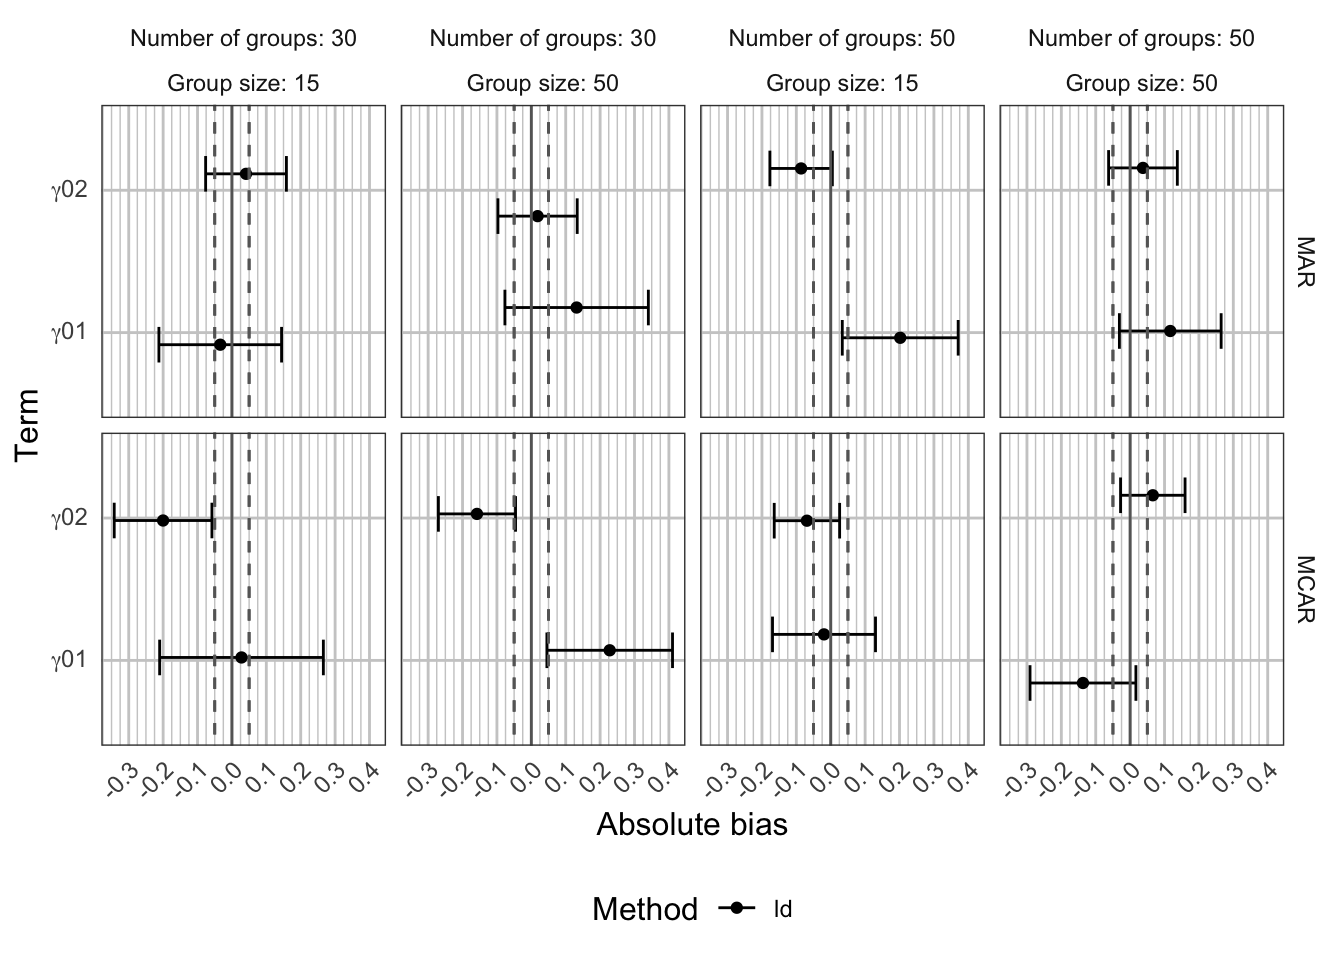
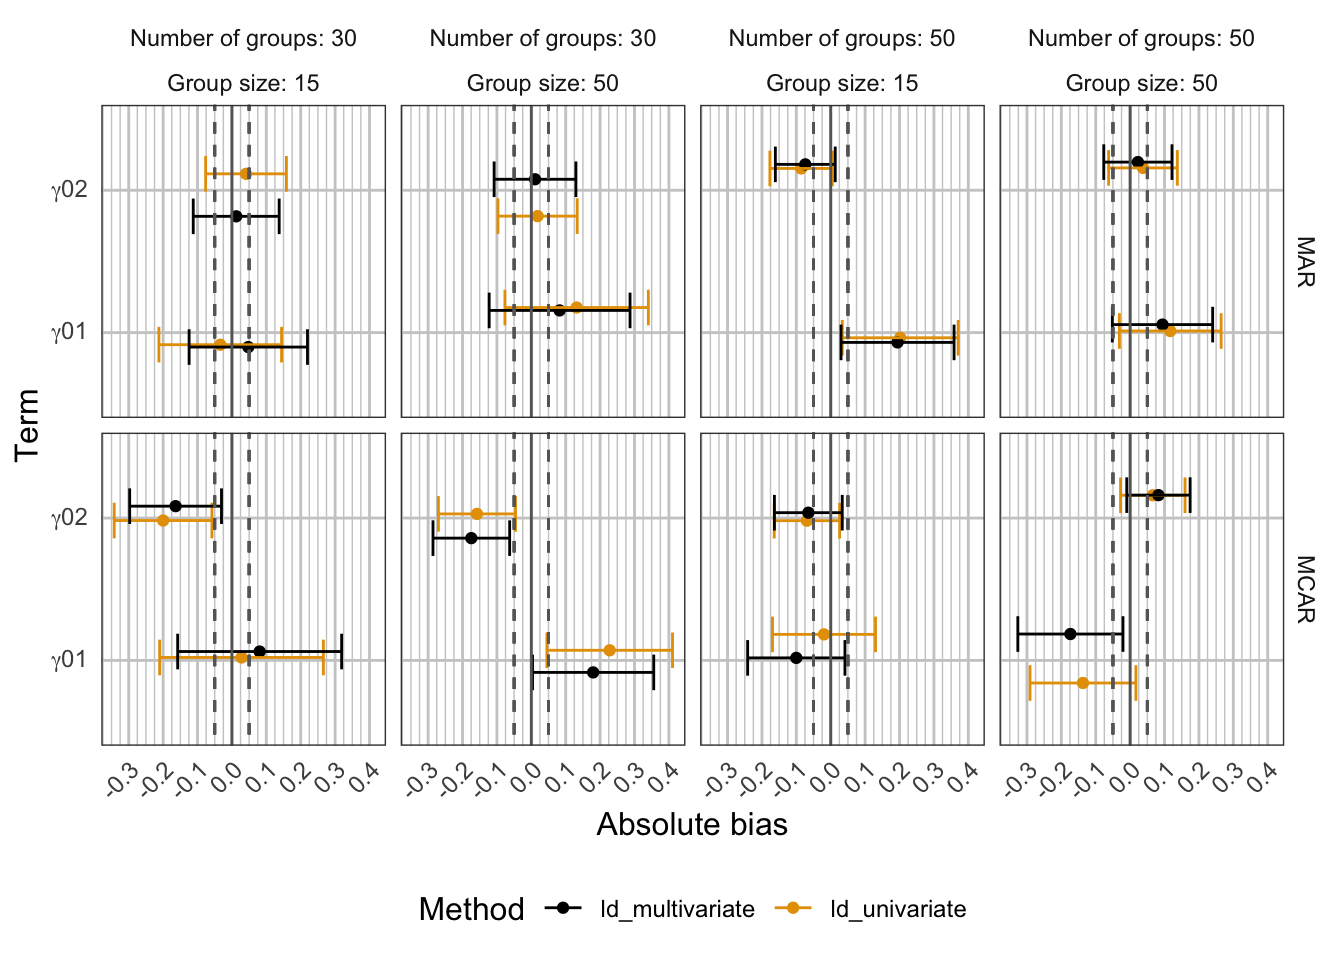
Adding figures for bias of multivariate and univariate missing data generation

diff --git a/multilevel missingess/multilevel missingness.html b/multilevel missingess/multilevel missingness.html
@@ -1546,15 +1546,23 @@ Processing iteration: 8 </code></pre>
 <span id="cb26-8"><a href="#cb26-8" aria-hidden="true" tabindex="-1"></a>    <span class="fu">return</span>(data)</span>
 <span id="cb26-9"><a href="#cb26-9" aria-hidden="true" tabindex="-1"></a>}</span>
 <span id="cb26-10"><a href="#cb26-10" aria-hidden="true" tabindex="-1"></a></span>
-<span id="cb26-11"><a href="#cb26-11" aria-hidden="true" tabindex="-1"></a>bias_ld <span class="ot">&lt;-</span> <span class="fu">map</span>(bias.datasets_ld, \(x) x<span class="sc">$</span>bias) <span class="sc">%&gt;%</span></span>
+<span id="cb26-11"><a href="#cb26-11" aria-hidden="true" tabindex="-1"></a>bias_ld_univariate <span class="ot">&lt;-</span> <span class="fu">map</span>(bias.datasets_ld, \(x) x<span class="sc">$</span>bias) <span class="sc">%&gt;%</span></span>
 <span id="cb26-12"><a href="#cb26-12" aria-hidden="true" tabindex="-1"></a>    <span class="fu">list_rbind</span>() <span class="sc">%&gt;%</span></span>
 <span id="cb26-13"><a href="#cb26-13" aria-hidden="true" tabindex="-1"></a>    <span class="fu">as_tibble</span>() <span class="sc">%&gt;%</span></span>
-<span id="cb26-14"><a href="#cb26-14" aria-hidden="true" tabindex="-1"></a>    <span class="fu">format.bias</span>(combinations, <span class="at">method =</span> <span class="st">"ld"</span>, <span class="at">name =</span> <span class="st">"Bias"</span>) <span class="sc">%&gt;%</span></span>
+<span id="cb26-14"><a href="#cb26-14" aria-hidden="true" tabindex="-1"></a>    <span class="fu">format.bias</span>(combinations, <span class="at">method =</span> <span class="st">"ld_univariate"</span>, <span class="at">name =</span> <span class="st">"Bias"</span>) <span class="sc">%&gt;%</span></span>
 <span id="cb26-15"><a href="#cb26-15" aria-hidden="true" tabindex="-1"></a>    <span class="fu">cbind</span>(<span class="fu">map</span>(bias.datasets_ld, \(x) x<span class="sc">$</span>bias.mcse) <span class="sc">%&gt;%</span></span>
 <span id="cb26-16"><a href="#cb26-16" aria-hidden="true" tabindex="-1"></a>        <span class="fu">list_rbind</span>() <span class="sc">%&gt;%</span></span>
 <span id="cb26-17"><a href="#cb26-17" aria-hidden="true" tabindex="-1"></a>        <span class="fu">as_tibble</span>() <span class="sc">%&gt;%</span></span>
-<span id="cb26-18"><a href="#cb26-18" aria-hidden="true" tabindex="-1"></a>        <span class="fu">format.bias</span>(combinations, <span class="at">method =</span> <span class="st">"ld"</span>, <span class="at">name =</span> <span class="st">"MCSE"</span>) <span class="sc">%&gt;%</span></span>
-<span id="cb26-19"><a href="#cb26-19" aria-hidden="true" tabindex="-1"></a>        dplyr<span class="sc">::</span><span class="fu">select</span>(MCSE))</span></code><button title="Copy to Clipboard" class="code-copy-button"><i class="bi"></i></button></pre></div>
+<span id="cb26-18"><a href="#cb26-18" aria-hidden="true" tabindex="-1"></a>        <span class="fu">format.bias</span>(combinations, <span class="at">method =</span> <span class="st">"ld_univariate"</span>, <span class="at">name =</span> <span class="st">"MCSE"</span>) <span class="sc">%&gt;%</span></span>
+<span id="cb26-19"><a href="#cb26-19" aria-hidden="true" tabindex="-1"></a>        dplyr<span class="sc">::</span><span class="fu">select</span>(MCSE))</span>
+<span id="cb26-20"><a href="#cb26-20" aria-hidden="true" tabindex="-1"></a></span>
+<span id="cb26-21"><a href="#cb26-21" aria-hidden="true" tabindex="-1"></a>bias_ld_multivariate <span class="ot">&lt;-</span> <span class="fu">read_rds</span>(<span class="fu">paste</span>(path, <span class="st">"results/evaluations/bias_ld.rds"</span>, <span class="at">sep =</span> <span class="st">""</span>)) <span class="sc">%&gt;%</span></span>
+<span id="cb26-22"><a href="#cb26-22" aria-hidden="true" tabindex="-1"></a>    <span class="fu">format.bias</span>(., combinations, <span class="at">method =</span> <span class="st">"ld_multivariate"</span>, <span class="at">name =</span> <span class="st">"Bias"</span>) <span class="sc">%&gt;%</span></span>
+<span id="cb26-23"><a href="#cb26-23" aria-hidden="true" tabindex="-1"></a>    <span class="fu">cbind</span>(<span class="fu">read_rds</span>(<span class="fu">paste</span>(path, <span class="st">"results/evaluations/mcse_bias_ld.rds"</span>, <span class="at">sep =</span> <span class="st">""</span>)) <span class="sc">%&gt;%</span></span>
+<span id="cb26-24"><a href="#cb26-24" aria-hidden="true" tabindex="-1"></a>        <span class="fu">format.bias</span>(., combinations, <span class="at">method =</span> <span class="st">"ld_multivariate"</span>, <span class="at">name =</span> <span class="st">"MCSE"</span>) <span class="sc">%&gt;%</span></span>
+<span id="cb26-25"><a href="#cb26-25" aria-hidden="true" tabindex="-1"></a>        dplyr<span class="sc">::</span><span class="fu">select</span>(MCSE))</span>
+<span id="cb26-26"><a href="#cb26-26" aria-hidden="true" tabindex="-1"></a></span>
+<span id="cb26-27"><a href="#cb26-27" aria-hidden="true" tabindex="-1"></a>bias_ld <span class="ot">&lt;-</span> <span class="fu">bind_rows</span>(bias_ld_univariate, bias_ld_multivariate)</span></code><button title="Copy to Clipboard" class="code-copy-button"><i class="bi"></i></button></pre></div>
 </details>
 </div>
 <div class="cell">
@@ -1569,7 +1577,7 @@ Processing iteration: 8 </code></pre>
 <img src="multilevel-missingness_files/figure-html/fig-bias-singular-missing-1.png" class="img-fluid figure-img" width="672">
 </div>
 <figcaption class="quarto-float-caption-bottom quarto-float-caption quarto-float-fig" id="fig-bias-singular-missing-1-caption-0ceaefa1-69ba-4598-a22c-09a6ac19f8ca">
-Figure&nbsp;25: Bias of the estimates for all datasets
+Figure&nbsp;25: Bias of the residual and intercept variance for all datasets
 </figcaption>
 </figure>
 </div>
@@ -1581,7 +1589,7 @@ Figure&nbsp;25: Bias of the estimates for all datasets
 <img src="multilevel-missingness_files/figure-html/fig-bias-singular-missing-2.png" class="img-fluid figure-img" width="672">
 </div>
 <figcaption class="quarto-float-caption-bottom quarto-float-caption quarto-float-fig" id="fig-bias-singular-missing-2-caption-0ceaefa1-69ba-4598-a22c-09a6ac19f8ca">
-Figure&nbsp;26: Bias of the estimates for all datasets
+Figure&nbsp;26: Bias of the overall intercept for all datasets
 </figcaption>
 </figure>
 </div>
@@ -1593,7 +1601,7 @@ Figure&nbsp;26: Bias of the estimates for all datasets
 <img src="multilevel-missingness_files/figure-html/fig-bias-singular-missing-3.png" class="img-fluid figure-img" width="672">
 </div>
 <figcaption class="quarto-float-caption-bottom quarto-float-caption quarto-float-fig" id="fig-bias-singular-missing-3-caption-0ceaefa1-69ba-4598-a22c-09a6ac19f8ca">
-Figure&nbsp;27: Bias of the estimates for all datasets
+Figure&nbsp;27: Bias of the fixed level-1 effects for all datasets
 </figcaption>
 </figure>
 </div>
@@ -1605,7 +1613,7 @@ Figure&nbsp;27: Bias of the estimates for all datasets
 <img src="multilevel-missingness_files/figure-html/fig-bias-singular-missing-4.png" class="img-fluid figure-img" width="672">
 </div>
 <figcaption class="quarto-float-caption-bottom quarto-float-caption quarto-float-fig" id="fig-bias-singular-missing-4-caption-0ceaefa1-69ba-4598-a22c-09a6ac19f8ca">
-Figure&nbsp;28: Bias of the estimates for all datasets
+Figure&nbsp;28: Bias of the fixed level-2 effects for all datasets
 </figcaption>
 </figure>
 </div>
@@ -1617,7 +1625,7 @@ Figure&nbsp;28: Bias of the estimates for all datasets
 <img src="multilevel-missingness_files/figure-html/fig-bias-singular-missing-5.png" class="img-fluid figure-img" width="672">
 </div>
 <figcaption class="quarto-float-caption-bottom quarto-float-caption quarto-float-fig" id="fig-bias-singular-missing-5-caption-0ceaefa1-69ba-4598-a22c-09a6ac19f8ca">
-Figure&nbsp;29: Bias of the estimates for all datasets
+Figure&nbsp;29: Bias of the cross-level interactions for all datasets
 </figcaption>
 </figure>
 </div>
@@ -1629,7 +1637,7 @@ Figure&nbsp;29: Bias of the estimates for all datasets
 <img src="multilevel-missingness_files/figure-html/fig-bias-singular-missing-6.png" class="img-fluid figure-img" width="672">
 </div>
 <figcaption class="quarto-float-caption-bottom quarto-float-caption quarto-float-fig" id="fig-bias-singular-missing-6-caption-0ceaefa1-69ba-4598-a22c-09a6ac19f8ca">
-Figure&nbsp;30: Bias of the estimates for all datasets
+Figure&nbsp;30: Bias of the random slopes for all datasets
 </figcaption>
 </figure>
 </div>
